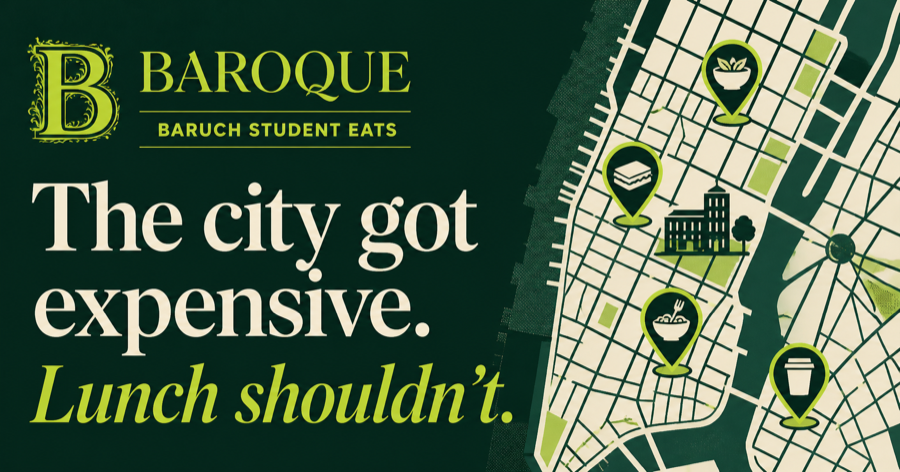
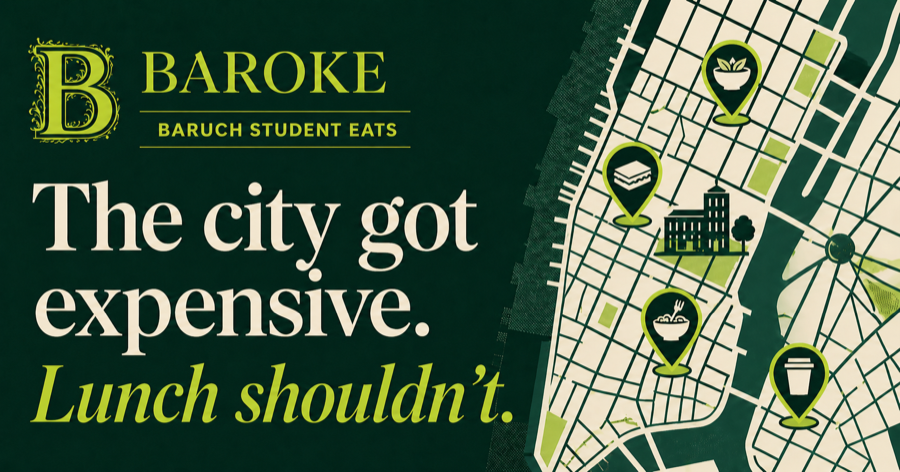
fix: rename student app to Baroke

diff --git a/frontend/app/student-eats-landing.tsx b/frontend/app/student-eats-landing.tsx
@@ -1,10 +1,10 @@
-import { BaroqueExplorer, MealBudgetLab } from "./baroque-explorer";
+import { BarokeExplorer, MealBudgetLab } from "./baroque-explorer";
 
 export function StudentEatsLanding() {
   return (
     <main className="baroque-shell">
       <header className="baroque-nav">
-        <a className="baroque-brand" href="#top"><span>B</span><div><strong>BAROQUE</strong><small>BARUCH STUDENT EATS</small></div></a>
+        <a className="baroque-brand" href="#top"><span>B</span><div><strong>BAROKE</strong><small>BARUCH STUDENT EATS</small></div></a>
         <nav><a href="#why">Why now</a><a href="#preview">Explore preview</a><a href="/tracker">LifeBeta data</a></nav>
         <a className="nav-cta" href="#preview">Find a cheap meal →</a>
       </header>
@@ -14,8 +14,8 @@ export function StudentEatsLanding() {
         <div className="hero-copy-block">
           <p className="baroque-kicker">BUILT FOR BARUCH · NEW YORK CITY</p>
           <h1>The city got expensive.<br /><em>Lunch shouldn&apos;t.</em></h1>
-          <p className="baroque-intro">Baroque is the upcoming student food map for honest prices, student discounts, verified deals, and meals close enough to make before your next class.</p>
-          <div className="baroque-actions"><a href="#preview">Preview Baroque <span>→</span></a><a href="/tracker">Open the inflation tracker</a></div>
+          <p className="baroque-intro">Baroke is the upcoming student food map for honest prices, student discounts, verified deals, and meals close enough to make before your next class.</p>
+          <div className="baroque-actions"><a href="#preview">Preview Baroke <span>→</span></a><a href="/tracker">Open the inflation tracker</a></div>
         </div>
         <article className="hero-stat" id="why">
           <small>U.S. FOOD AWAY FROM HOME CPI</small><strong>+37.3%</strong><p>January 2020 → July 2026</p><span>BLS series CUUR0000SEFV · national benchmark</span>
@@ -27,9 +27,9 @@ export function StudentEatsLanding() {
         <MealBudgetLab />
         <div className="source-line"><span>OFFICIAL BENCHMARK</span><p>The public 37.3% figure compares the January 2020 and July 2026 U.S. food-away-from-home CPI indexes.</p><a href="https://www.bls.gov/news.release/archives/cpi_08122026.htm" target="_blank" rel="noreferrer">Read the BLS release ↗</a></div>
       </section>
-      <BaroqueExplorer />
-      <section className="product-boundary"><span>LIFEBETA MEASURES THE PROBLEM</span><i>→</i><span>BAROQUE HELPS STUDENTS ACT</span></section>
-      <footer className="baroque-footer"><a className="baroque-brand" href="#top"><span>B</span><div><strong>BAROQUE</strong><small>POWERED BY LIFEBETA</small></div></a><p>Independent educational project · seeded restaurant preview · no active deal claims</p><a href="/tracker">Open LifeBeta tracker →</a></footer>
+      <BarokeExplorer />
+      <section className="product-boundary"><span>LIFEBETA MEASURES THE PROBLEM</span><i>→</i><span>BAROKE HELPS STUDENTS ACT</span></section>
+      <footer className="baroque-footer"><a className="baroque-brand" href="#top"><span>B</span><div><strong>BAROKE</strong><small>POWERED BY LIFEBETA</small></div></a><p>Independent educational project · seeded restaurant preview · no active deal claims</p><a href="/tracker">Open LifeBeta tracker →</a></footer>
     </main>
   );
 }

diff --git a/frontend/app/globals.css b/frontend/app/globals.css
@@ -18,7 +18,7 @@ button,a { font:inherit; } a { color:inherit; text-decoration:none; }
 .life-method { padding:80px clamp(20px,8vw,125px); background:var(--lime); }.life-method>span { font-size:8px; font-weight:800; letter-spacing:1px; }.life-method>h2 { margin:9px 0 40px; font-family:Georgia,serif; font-size:clamp(42px,6vw,78px); line-height:.95; font-weight:400; letter-spacing:-2.5px; }.life-method>div { display:grid; grid-template-columns:repeat(4,1fr); border-top:1px solid rgba(24,49,43,.35); }.life-method article { padding:22px 22px 0 0; }.life-method article b { display:block; margin-bottom:23px; font-family:Georgia,serif; font-size:25px; color:#758f35; }.life-method article strong { font-family:Georgia,serif; font-size:18px; font-weight:400; }.life-method article p { font-size:9px; line-height:1.6; }
 footer { padding:24px clamp(20px,5vw,80px); display:flex; justify-content:space-between; color:#91a39b; background:var(--ink); font-size:8px; } footer strong { color:white; letter-spacing:2px; }
 
-/* Baroque is the public acquisition layer; LifeBeta remains the evidence layer. */
+/* Baroke is the public acquisition layer; LifeBeta remains the evidence layer. */
 .baroque-shell { min-height:100vh; color:#17231f; background:#f4f0e5; }
 .baroque-nav { height:76px; padding:0 clamp(20px,5vw,80px); display:flex; align-items:center; gap:55px; color:#fff; background:#17231f; border-bottom:1px solid rgba(255,255,255,.13); }
 .baroque-brand { display:flex; gap:11px; align-items:center; }.baroque-brand>span { width:40px; height:40px; display:grid; place-items:center; color:#17231f; background:#d9ff63; border-radius:50%; font-family:Georgia,serif; font-size:24px; }.baroque-brand div { display:grid; }.baroque-brand strong { letter-spacing:2.4px; font-size:13px; }.baroque-brand small { color:#9eaca6; font-size:7px; letter-spacing:1.1px; }

diff --git a/frontend/app/baroque-explorer.tsx b/frontend/app/baroque-explorer.tsx
@@ -17,7 +17,7 @@ const dealPreviews = [
   { place: "Lexington Slice", title: "10% with valid student ID", source: "Student submitted", status: "Pending moderation", tone: "pending" },
 ];
 
-export function BaroqueExplorer() {
+export function BarokeExplorer() {
   const [maxPrice, setMaxPrice] = useState(12);
   const [maxDistance, setMaxDistance] = useState(1);
   const [discountOnly, setDiscountOnly] = useState(false);
@@ -55,7 +55,7 @@ export function BaroqueExplorer() {
       </section>
 
       <section className="submit-section" id="submit">
-        <div><span>COMMUNITY SIGNAL</span><h2>Students find the deals first.</h2><p>Baroque will let students submit a deal, but submissions will remain pending until a moderator or trusted source verifies the terms and expiration.</p></div>
+        <div><span>COMMUNITY SIGNAL</span><h2>Students find the deals first.</h2><p>Baroke will let students submit a deal, but submissions will remain pending until a moderator or trusted source verifies the terms and expiration.</p></div>
         {submission ? <div className="submission-success"><span>✓</span><strong>Preview submission captured on this device.</strong><p>No data was sent or saved. Production submissions will require authentication, moderation, and an audit trail.</p><button onClick={() => setSubmission(false)}>Submit another preview</button></div> : <form onSubmit={(event) => { event.preventDefault(); setSubmission(true); }}><label>PLACE<input required placeholder="Restaurant or store" /></label><label>DEAL DETAILS<textarea required placeholder="What is the deal, and what proof did you see?" /></label><label>EXPIRATION, IF KNOWN<input type="date" /></label><button type="submit">Preview submission →</button><small>Device-only demonstration · nothing is uploaded</small></form>}
       </section>
     </>

diff --git a/frontend/app/page.tsx b/frontend/app/page.tsx
@@ -9,17 +9,17 @@ export async function generateMetadata(): Promise<Metadata> {
   const image = `${protocol}://${host}/baroque-social-card.png`;
 
   return {
-    title: "Baroque — Baruch Student Eats, powered by LifeBeta",
+    title: "Baroke — Baruch Student Eats, powered by LifeBeta",
     description: "Find affordable food, student discounts, and verified deals around Baruch—backed by transparent food-inflation data.",
     openGraph: {
-      title: "Baroque — Baruch Student Eats",
+      title: "Baroke — Baruch Student Eats",
       description: "The city got expensive. Lunch shouldn't.",
       type: "website",
-      images: [{ url: image, width: 900, height: 472, alt: "Baroque — Baruch Student Eats" }],
+      images: [{ url: image, width: 900, height: 472, alt: "Baroke — Baruch Student Eats" }],
     },
     twitter: {
       card: "summary_large_image",
-      title: "Baroque — Baruch Student Eats",
+      title: "Baroke — Baruch Student Eats",
       description: "The city got expensive. Lunch shouldn't.",
       images: [image],
     },

diff --git a/frontend/app/inflation-tracker.tsx b/frontend/app/inflation-tracker.tsx
@@ -43,7 +43,7 @@ export function InflationTracker() {
 
   return (
     <main className="life-shell">
-      <header className="life-nav"><Link href="/tracker" className="life-brand"><span>β</span><strong>LIFEBETA</strong></Link><nav><Link href="/">Baroque</Link><a href="#basket">My basket</a><a href="#method">Method</a></nav><div className="privacy-chip">PRIVATE BY DEFAULT</div></header>
+      <header className="life-nav"><Link href="/tracker" className="life-brand"><span>β</span><strong>LIFEBETA</strong></Link><nav><Link href="/">Baroke</Link><a href="#basket">My basket</a><a href="#method">Method</a></nav><div className="privacy-chip">PRIVATE BY DEFAULT</div></header>
 
       <section className="life-hero" id="top">
         <div><p>YOUR COST OF LIVING · MEASURED</p><h1>Inflation is personal.<br /><em>Track yours.</em></h1><span>Build an index from the food, gym, jerseys, clothes, and subscriptions you actually buy—then compare it with released CPI.</span></div>

diff --git a/frontend/app/tracker/page.tsx b/frontend/app/tracker/page.tsx
@@ -4,8 +4,8 @@ import { InflationTracker } from "../inflation-tracker";
 export const metadata: Metadata = {
   title: "LifeBeta Food Inflation Tracker",
   description: "Inspect saved baskets, price normalization, missing-data blocks, stale warnings, and released-CPI comparisons.",
-  openGraph: { title: "LifeBeta Food Inflation Tracker", description: "Transparent personal food-inflation evidence behind Baroque.", images: [] },
-  twitter: { card: "summary", title: "LifeBeta Food Inflation Tracker", description: "Transparent personal food-inflation evidence behind Baroque.", images: [] },
+  openGraph: { title: "LifeBeta Food Inflation Tracker", description: "Transparent personal food-inflation evidence behind Baroke.", images: [] },
+  twitter: { card: "summary", title: "LifeBeta Food Inflation Tracker", description: "Transparent personal food-inflation evidence behind Baroke.", images: [] },
 };
 
 export default function TrackerPage() { return <InflationTracker />; }

diff --git a/README.md b/README.md
@@ -1,10 +1,10 @@
-# LifeBeta + Baroque
+# LifeBeta + Baroke
 
 A provenance-aware inflation evidence layer and a student-food product preview.
 
-LifeBeta tracks the prices that actually matter to a person—food, protein bars, gym membership, clothing and soccer jerseys—then compares that personal index with public inflation series and explores how a portfolio behaved during those cost changes. Baroque turns the food-affordability evidence into an upcoming Baruch student product: cheap meal discovery, price and distance filters, student discounts, and deals with visible verification states.
+LifeBeta tracks the prices that actually matter to a person—food, protein bars, gym membership, clothing and soccer jerseys—then compares that personal index with public inflation series and explores how a portfolio behaved during those cost changes. Baroke turns the food-affordability evidence into an upcoming Baruch student product: cheap meal discovery, price and distance filters, student discounts, and deals with visible verification states.
 
-LifeBeta measures the problem. Baroque helps students act. The current Baroque restaurant listings, coordinates, and deal cards are seeded product demonstrations, not current prices or active offers.
+LifeBeta measures the problem. Baroke helps students act. The current Baroke restaurant listings, coordinates, and deal cards are seeded product demonstrations, not current prices or active offers.
 
 ## Marco's seeded basket
 
@@ -37,7 +37,7 @@ Seeded values are examples, not claims of current prices. Real observations will
 - No-look-ahead basket quality reports for history depth, freshness, and source concentration.
 - A responsive React/TypeScript interface for saved baskets, weighting choices, CPI comparison, product drivers, stale warnings, and missing-data blocks.
 - A tested meal-affordability model that translates price growth into meals lost, budget share, and weekly shortfall.
-- A public Baroque launch story with an interactive budget lab, seeded food-map filters, deal verification states, and a device-only submission preview.
+- A public Baroke launch story with an interactive budget lab, seeded food-map filters, deal verification states, and a device-only submission preview.
 
 Seeded values are examples, never claims of live prices.
 
@@ -73,7 +73,7 @@ pnpm install
 pnpm dev
 ```
 
-Open `http://localhost:3000` for Baroque. Open `http://localhost:3000/tracker` for the LifeBeta evidence layer; switch to **Matchday Kit** to see why a missing Liverpool jersey observation blocks the index, while **Training Day** demonstrates a non-blocking stale-price warning.
+Open `http://localhost:3000` for Baroke. Open `http://localhost:3000/tracker` for the LifeBeta evidence layer; switch to **Matchday Kit** to see why a missing Liverpool jersey observation blocks the index, while **Training Day** demonstrates a non-blocking stale-price warning.
 
 ## Repository map
 
@@ -89,14 +89,14 @@ Open `http://localhost:3000` for Baroque. Open `http://localhost:3000/tracker` f
 | `src/lifebeta/purchasing_power.py` | Nominal return, real return, and purchasing-power gap |
 | `src/lifebeta/food_affordability.py` | Meals affordable, meals lost, and weekly budget shortfall |
 | `src/lifebeta/store.py` | Privacy-bounded SQLite persistence for normalized data |
-| `frontend/app/student-eats-landing.tsx` | Baroque launch story and evidence-to-action product boundary |
+| `frontend/app/student-eats-landing.tsx` | Baroke launch story and evidence-to-action product boundary |
 | `frontend/app/baroque-explorer.tsx` | Interactive budget, search, map, deals, and submission previews |
 | `frontend/app/inflation-tracker.tsx` | Saved basket controls, data-quality states, and drivers |
 | `frontend/app/globals.css` | Product styling and responsive layout |
 | `tests/` | Small examples that document the intended behavior |
 | `docs/` | Milestone decisions and data flows |
 
-Start with `tests/test_api.py` to understand the HTTP request flow. Read [Baroque transition design](docs/baroque-transition.md) for the product boundary, proposed production data flow, deal moderation, search architecture, privacy model, and failure modes. The numbered milestone documents explain the existing LifeBeta analytics in order.
+Start with `tests/test_api.py` to understand the HTTP request flow. Read [Baroke transition design](docs/baroque-transition.md) for the product boundary, proposed production data flow, deal moderation, search architecture, privacy model, and failure modes. The numbered milestone documents explain the existing LifeBeta analytics in order.
 
 ## Next milestones
 

diff --git a/docs/baroque-transition.md b/docs/baroque-transition.md
@@ -1,10 +1,10 @@
-# Baroque transition design
+# Baroke transition design
 
 ## Product boundary
 
 LifeBeta is the evidence layer. It explains how price changes affect a student's weekly food budget and preserves the provenance, units, effective dates, and quality state behind every calculation.
 
-Baroque is the action layer. It will help Baruch students find an affordable meal nearby, identify student discounts, and judge whether a deal is still trustworthy. The public landing page connects the two products without claiming that the current seeded restaurant cards are live data.
+Baroke is the action layer. It will help Baruch students find an affordable meal nearby, identify student discounts, and judge whether a deal is still trustworthy. The public landing page connects the two products without claiming that the current seeded restaurant cards are live data.
 
 ## Current request flow
 
@@ -68,7 +68,7 @@ PostgreSQL can start with indexed latitude and longitude columns. If the dataset
 - Public visitors can browse without an account.
 - Submitting or reporting a deal requires authentication and rate limiting.
 - Moderation records are append-only audit events, not silent overwrites.
-- Personal financial imports remain outside Baroque. LifeBeta never needs raw Fidelity holdings to calculate food affordability.
+- Personal financial imports remain outside Baroke. LifeBeta never needs raw Fidelity holdings to calculate food affordability.
 - A source URL alone is insufficient: the system also stores what was observed and when.
 
 ## Failure modes
